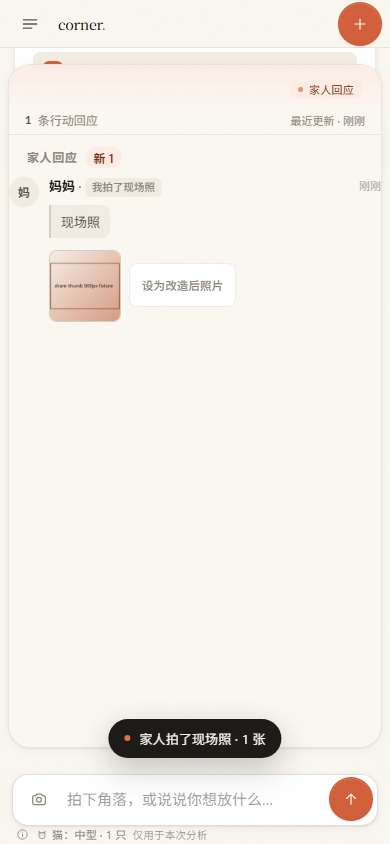
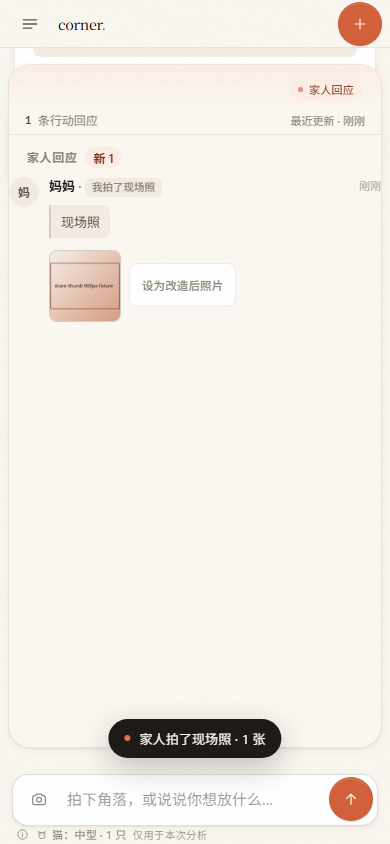
test(V4.2): 独立验收 64 checks + QA 报告 + 截图
- tests/v4.2-notify.mjs：三态按钮 / 不自动请求权限 / 后台触发字段 / 去重与 30s 节流 / 点击回到卡片 / 关闭与降级
- tests/cdp-probe.mjs 增加 --init-script（页面脚本前注入 FakeNotification）
- docs/QA-REPORT-V4.2.md + 截图 26/27（.is-on 态 390/1440）

Changed region(s): [[0.0923, 0.0308, 0.9231, 0.0924]]

diff --git a/docs/QA-REPORT-V4.2.md b/docs/QA-REPORT-V4.2.md
@@ -1,0 +1,142 @@
+# 猫角落 Corner · V4.2 独立验收报告（系统通知：让产品来找你）
+
+> 验收方：verifier（独立于实现方；只写 `tests/**`、`docs/**`）
+> 契约依据：`docs/CONTRACT-V4.2.md`
+> **最终结论：PASS** —— 独立验收 2 个浏览器场景 / **64 checks 全部通过**；V4.1/V4/V3/V2 既有回归全绿。
+> 本文件 UTF-8 无 BOM。
+
+---
+
+## 1. 验收环境与产物
+
+| 项 | 内容 |
+|---|---|
+| 服务端 | `http://127.0.0.1:8848`，V4.2 前端（已冻结） |
+| 验收脚本 | `tests/v4.2-notify.mjs`（独立编写；CDP 真仿真 + 注入 `FakeNotification` / `document.visibilityState` / `Date.now` stub） |
+| 运行 | `2026-10-24 23:10:45`，runId `2026-10-24_15-10-45` |
+| 结果 | **PASS**：notify-390 / notify-1440 两场景 / **64 checks** / failed=0 |
+| 证据 | `.scratch/qa-v42-notify-2026-10-24_15-10-45.json`、`.scratch/qaV42-notify-run3.log` |
+| 截图 | `docs/screens/26-notify-toggle-390.png`（.is-on）、`docs/screens/27-notify-toggle-1440.png`（.is-on） |
+| 测试侧增强 | `tests/cdp-probe.mjs` 新增 `--init-script`（页面脚本前注入 stub），用于验证「加载时不自动请求权限」 |
+
+> 说明：系统通知本身无法在无头浏览器里弹出真实 OS 通知；本验收用标准 `Notification` stub 断言**构造参数与调用次数**，并用 `visibilityState` 覆盖模拟后台。iOS/PWA 真机行为属契约已知边界，本轮未测。
+
+---
+
+## 2. 契约逐条验收
+
+### 2.1 入口三态与权限（§1）
+
+| 验收点 | 期望 | 实测 | 结果 |
+|---|---|---|---|
+| 默认态 | `家人回应时提醒我`、可点、无 `.is-on` | 一致；`getNotifyState()=off`、`localStorage['corner.notify']=null` | ✅ |
+| **加载不自动请求权限** | `Notification.requestPermission` 调用数 = 0 | 页面加载后 **0**，无 Notification 构造 | ✅ |
+| 点击开启 | 请求权限 1 次 → `已开启提醒 · 点此关闭`、`.is-on`、storage=1 | 请求 1 次；文案/class/storage 全对；state=`enabled` | ✅ |
+| permission=denied | `浏览器不支持提醒`、disabled、不再请求权限 | 一致；点击 disabled 按钮 requestPermission 不增加 | ✅ |
+| 无 `Notification` | `浏览器不支持提醒`、disabled、无异常 | 一致；state=`unsupported`，无 banner | ✅ |
+| `getNotifyState()` | 与实现对齐 | `off` / `enabled` / `unsupported`（denied 归 unsupported）；见 OBS-V42-1 | ✅ |
+
+### 2.2 触发与内容（§2）
+
+| 验收点 | 实测 |
+|---|---|
+| 条件：permission=granted + 开关 on + `visibilityState=hidden` + 新回应 | 构造 **1 次** `Notification` |
+| title / body | `猫角落 · 家人给了回应` / `家人拍了现场照 · 1 张`（与 toast 一致） |
+| tag / icon | `corner-s_<sessionId>` / `/icons/icon-192.png` |
+| 只有投票、无回应 | title `猫角落 · 家人给了意见`，body `家人给了意见 · 支持 1 · 犹豫 0` |
+| 同时角标 | 卡内 `新 1` 仍正常出现 |
+
+### 2.3 去重与节流（§3）
+
+| 验收点 | 实测 |
+|---|---|
+| 同一批数据再次 `refreshVotes` | 通知数仍 1（不重复） |
+| 30s 内新事件 | 第 2 条通知被节流（仍 1） |
+| `Date.now + 31s` 后新事件 | 第 2 条通知构造，title/body/tag 正确 |
+
+### 2.4 点击通知（§2）
+
+| 验收点 | 实测 |
+|---|---|
+| 点击回调 | `.card-votes` 进入视口（top=432 < vh=844） |
+| 未读清零 | 卡内 chip 清空；`corner.respondsRead.<sid>=3`（当时 count=3） |
+
+### 2.5 关闭与降级（§4/§5）
+
+| 验收点 | 实测 |
+|---|---|
+| 再点开关关闭 | storage=`0`、文案回默认、state=`off` |
+| 关闭后新事件 | 即使 permission=granted + hidden 也不通知（数量不变） |
+| 关闭后角标/toast | 仍正常（chip `新 1`） |
+| denied / 无 Notification | 不通知、无异常、无 banner；chip 仍正常（`新 2`） |
+| 390/1440 健康 | 无横向溢出、无 banner、无 JS 异常；1440 开关 is-on 尺寸 **163×44** |
+
+---
+
+## 3. 关键实测数字
+
+```
+390 初始：requestPermission=0，通知=0，state=off，按钮「家人回应时提醒我」
+点击开启：requestPermission=1，storage=1，state=enabled，按钮「已开启提醒 · 点此关闭」
+后台+照片回应：通知=1，title/body/tag/icon 全对
+同批 refresh：通知=1（去重）
+30s 内新事件：通知=1（节流）；Date.now+31s：通知=2
+点通知：chip 清空，respondsRead=3，card top=432/vh=844
+关闭后：通知仍=3（不再发）；chip 新1
+只有投票：第 3 条通知 title=「猫角落 · 家人给了意见」
+denied/无 Notification：state=unsupported、disabled、无异常
+```
+
+---
+
+## 4. 观察项（不阻断 DoD）
+
+| ID | 级别 | 观察 | 建议 / 负责 |
+|---|---|---|---|
+| OBS-V42-1 | 说明（命名） | `getNotifyState()` 实际返回 `off/enabled/unsupported`；契约表里写“已授权/已拒绝”，Lead 任务清单提到 `'denied'/'on'`。实现把 denied 归为 `unsupported`（UI 三态一致），属命名映射差异 | 建议契约/文档统一写 `off/enabled/unsupported`；实现无需改 |
+| OBS-V42-2 | P3（节流取舍） | 30s 内被节流的事件不进入 `notifiedEventIds`，也不聚合到下一窗口；31s 后的通知只反映“当时那一条”。契约允许“最多 1 条/30s”，但会丢失中间事件的摘要 | 可选：窗口内合并为「家人给了 N 条新消息」；非本轮 DoD |
+| OBS-V42-3 | 边界（未测） | 真机 iOS Safari / 非 PWA 的 Notification 支持、系统通知实际展示、点击后切回应用的真实聚焦行为，无头环境不可验 | 已知边界；按契约 §5 诚实降级，不宣称手机必达 |
+| OBS-V42-4 | 说明（测试） | 验收使用 stub（FakeNotification/visibility/Date.now），非真实系统通知；stub 在页面脚本前注入，保证能断言“加载时 0 次权限请求” | 测试手段说明 |
+
+---
+
+## 5. DoD 对照（`docs/CONTRACT-V4.2.md` §7）
+
+| DoD | 状态 | 证据 |
+|---|---|---|
+| 按钮三态正确；不支持时禁用不弹窗 | ✅ | 默认/已开启/不支持三态；disabled 时 requestPermission 不增 |
+| 模拟后台 + 新回应 → `Notification` 构造被调用 | ✅ | 1 次，字段全对 |
+| 同一事件不重复通知；30s 节流生效 | ✅ | 去重 1；31s 后 2 |
+| 点击通知 → 应用聚焦并滚到 `.card-votes`，未读清零 | ✅ | top=432，chip 清空，respondsRead=3 |
+| 关闭开关后不再通知 | ✅ | 通知数不变，chip 正常 |
+| 权限被拒时无异常、toast/角标仍正常 | ✅ | denied/无 Notification 均无 banner/异常 |
+| 390/1440 无溢出、无 banner、无 JS 异常 | ✅ | 两场景 diag |
+
+---
+
+## 6. 回归（同一冻结服务端/前端）
+
+| 套件 | 结果 |
+|---|---|
+| `dom-check` | **PASS 5 checks** |
+| `api-e2e-v2` | **PASS 6 阶段 689 checks（57.3s）** |
+| `api-e2e-v3` | **PASS 13 阶段 220 checks（21.6s）** |
+| `api-e2e-v4` | **PASS 9 阶段 80 checks** |
+| `v4.1-receipt` | **PASS 3 场景 72 checks** |
+| `v3-shots` | **PASS 6 场景 161 checks** |
+
+---
+
+## 7. 证据文件
+
+| 文件 | 内容 |
+|---|---|
+| `tests/v4.2-notify.mjs` | V4.2 独立验收（2 场景 64 checks） |
+| `tests/cdp-probe.mjs` | 新增 `--init-script`（stub 注入）；既有 `--profile`/`wheel` 步骤 |
+| `.scratch/qa-v42-notify-2026-10-24_15-10-45.json` | 最终轮证据（stub 快照、通知字段、chip/基线） |
+| `.scratch/qaV42-notify-run3.log` | 最终轮控制台输出 |
+| `.scratch/qaV42-reg-*.log` | dom / v2 / v3 / v4 / v4.1 / v3-shots 回归输出 |
+| `docs/screens/26-notify-toggle-390.png` | 390：`已开启提醒 · 点此关闭`（.is-on） |
+| `docs/screens/27-notify-toggle-1440.png` | 1440：`.is-on` 开关（163×44）与已读基线 |
+
+_本报告为 V4.2 最终版；结论 PASS（64 checks），未发现 P0/P1。_
